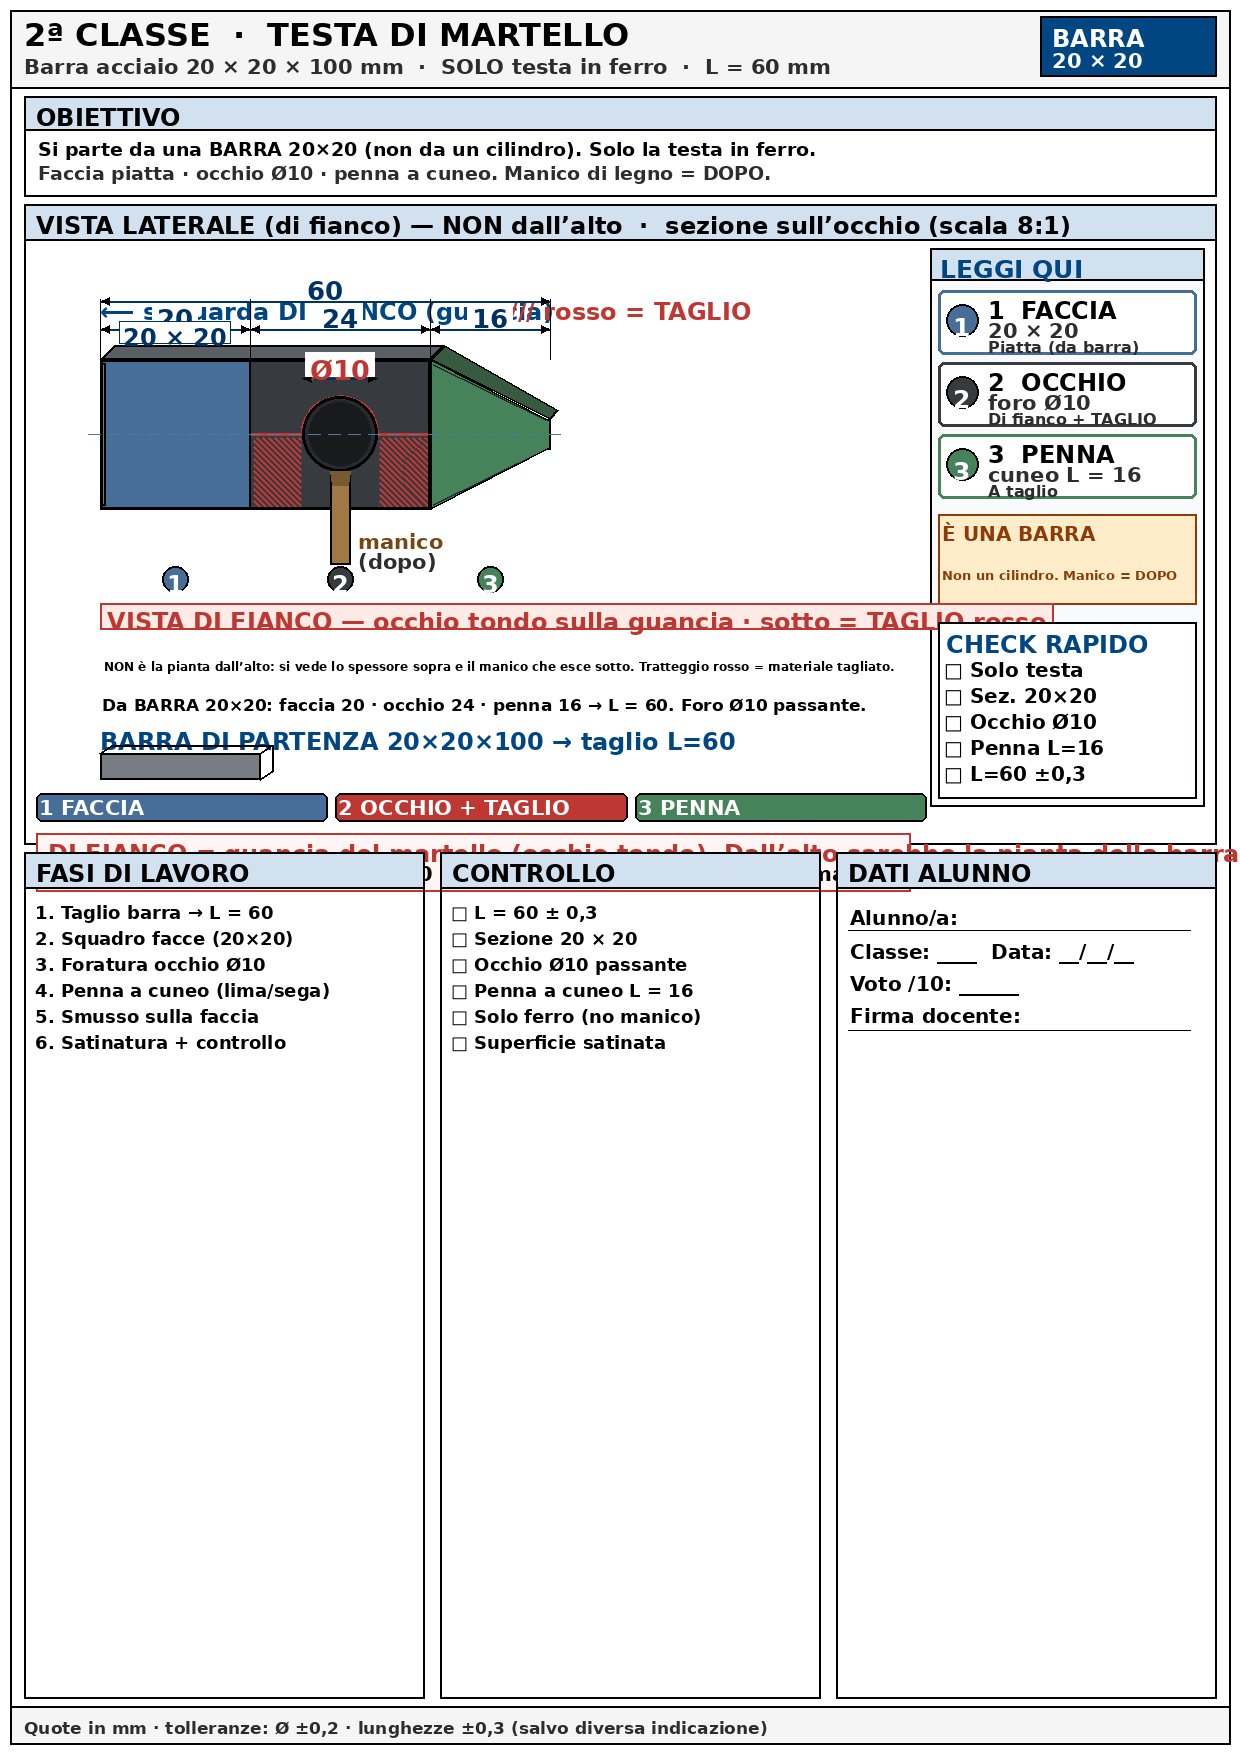
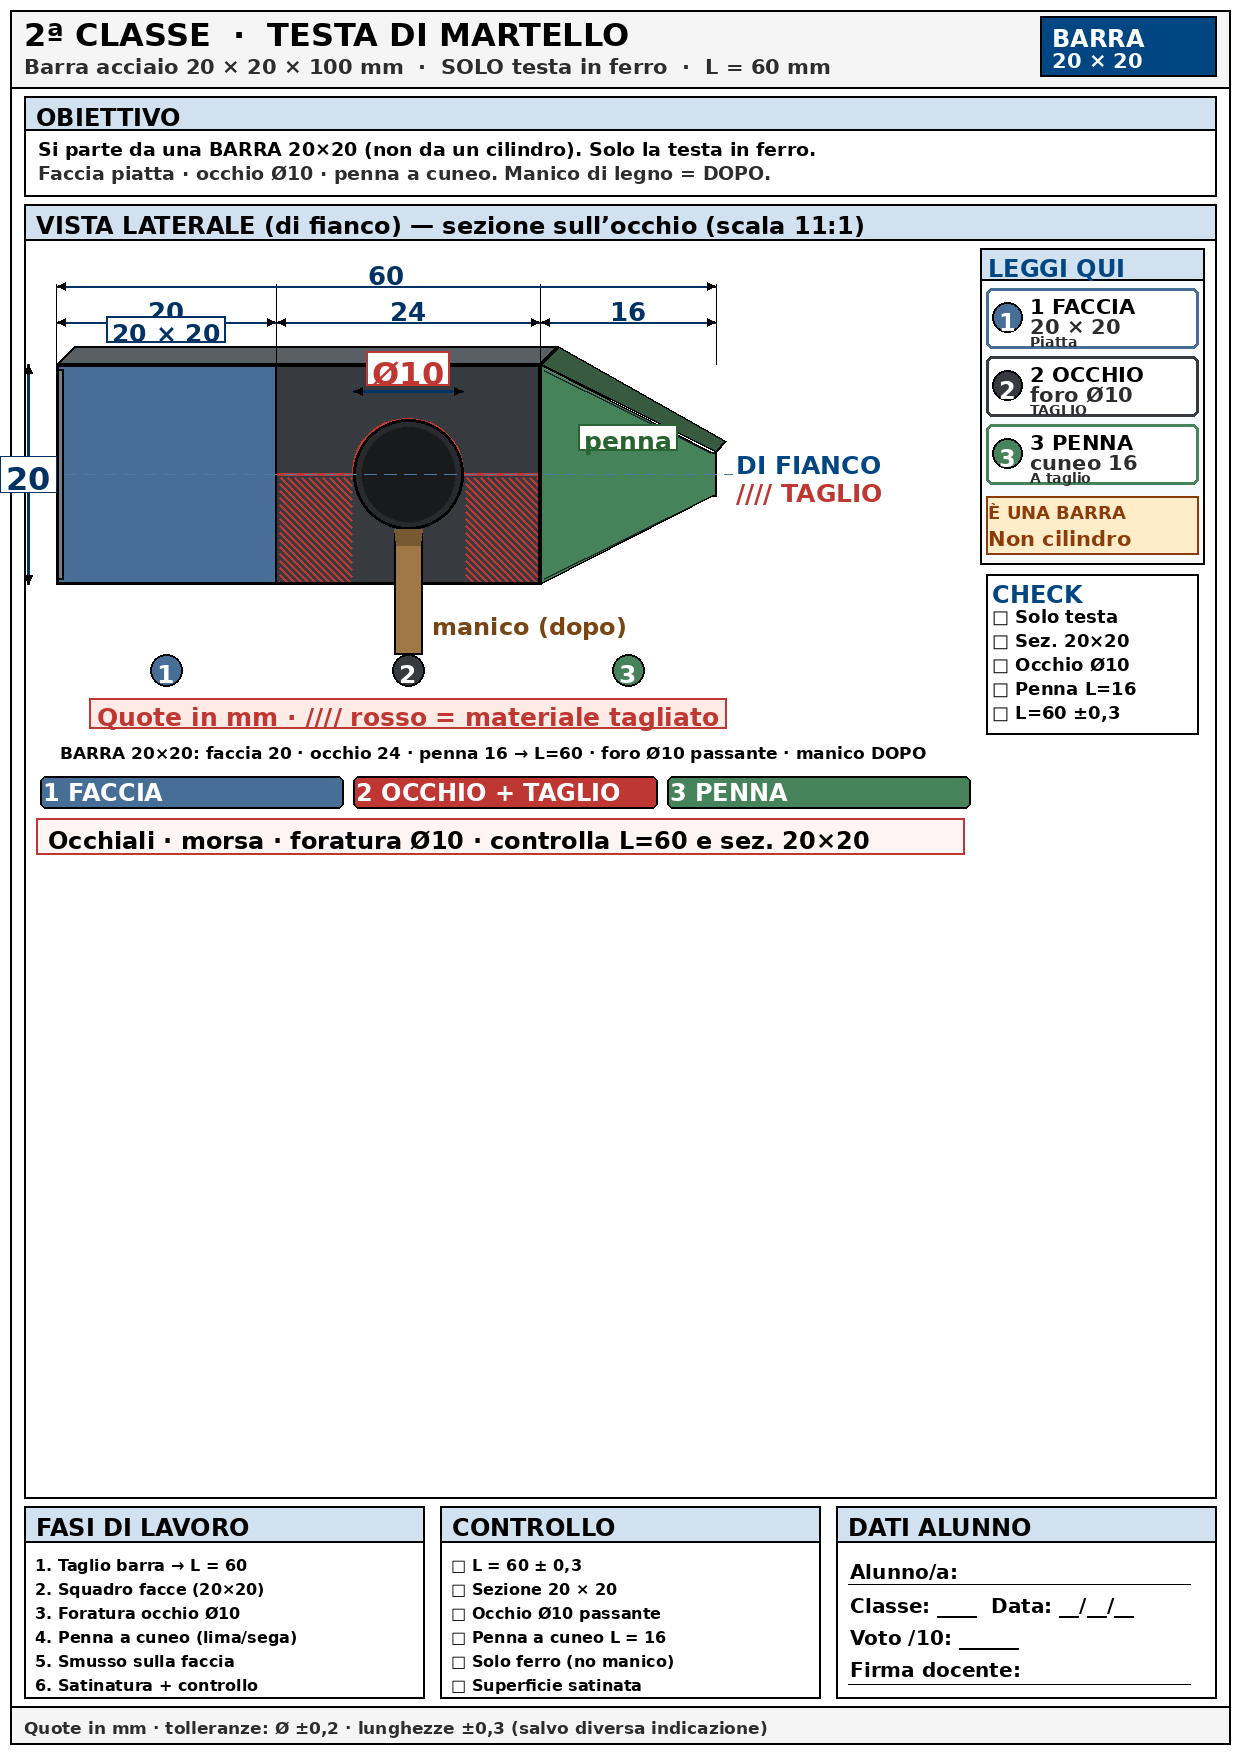
Ingrandisce il disegno della testa martello e le quote.
Scala 11:1; Ø10 e 20 più leggibili; niente testo sopra le misure.

Changed region(s): [[0.0, 0.1231, 1.0, 0.9852]]

diff --git a/progetti-ferro-gallery/generate_ferro.py b/progetti-ferro-gallery/generate_ferro.py
@@ -478,19 +478,12 @@ def make_2a():
         "□ Solo ferro (no manico)",
         "□ Superficie satinata",
     ]
-    step = 26
-    bh = 40 + max(len(fasi), len(ctrl)) * step + 20
-    draw_h = 580
-    bot = draw_top + draw_h + 8
-    if bot + bh > FOOT - 8:
-        bh = FOOT - bot - 8
-    else:
-        slack = FOOT - 8 - bh - bot
-        if slack > 0:
-            draw_h += min(slack, 60)
-            bot = draw_top + draw_h + 8
-            bh = FOOT - bot - 8
-    panel(d, 24, draw_top, W - 48, draw_h, "VISTA LATERALE (di fianco) — NON dall’alto  ·  sezione sull’occhio (scala 8:1)")
+    step = 24
+    bh = 36 + max(len(fasi), len(ctrl)) * step + 12
+    # più spazio al disegno (quote grandi)
+    bot = FOOT - bh - 8
+    draw_h = bot - draw_top - 8
+    panel(d, 24, draw_top, W - 48, draw_h, "VISTA LATERALE (di fianco) — sezione sull’occhio (scala 11:1)")
     panel_bottom = draw_top + draw_h
 
     FACE_C = (70, 110, 150)
@@ -500,43 +493,42 @@ def make_2a():
     IRON_D = (35, 38, 42)
     TOP_C = (90, 95, 100)   # faccia superiore (spessore)
 
-    info_x1, info_x2 = 930, W - 36
-    leggi_bottom = draw_top + 418 + 36 + 5 * 26 + 10 + 8
-    d.rectangle([info_x1, draw_top + 44, info_x2, leggi_bottom], fill=(248, 250, 252), outline=BLACK, width=2)
+    # pannello destro più stretto → più spazio al disegno
+    info_x1, info_x2 = 980, W - 36
+    d.rectangle([info_x1, draw_top + 44, info_x2, draw_top + 360], fill=(248, 250, 252), outline=BLACK, width=2)
     d.rectangle([info_x1, draw_top + 44, info_x2, draw_top + 76], fill=LIGHT, outline=BLACK, width=2)
-    d.text((info_x1 + 10, draw_top + 50), "LEGGI QUI", fill=ACCENT, font=F14)
+    d.text((info_x1 + 8, draw_top + 50), "LEGGI QUI", fill=ACCENT, font=F13)
 
     blocks = [
-        (FACE_C, "FACCIA", "20 × 20", "Piatta (da barra)"),
-        (IRON, "OCCHIO", "foro Ø10", "Di fianco + TAGLIO"),
-        (PEEN_C, "PENNA", "cuneo L = 16", "A taglio"),
+        (FACE_C, "FACCIA", "20 × 20", "Piatta"),
+        (IRON, "OCCHIO", "foro Ø10", "TAGLIO"),
+        (PEEN_C, "PENNA", "cuneo 16", "A taglio"),
     ]
     for i, (col, title, line1, line2) in enumerate(blocks):
-        yy = draw_top + 86 + i * 72
-        d.rounded_rectangle([info_x1 + 8, yy, info_x2 - 8, yy + 64], radius=6, fill=WHITE, outline=col, width=3)
-        d.ellipse([info_x1 + 16, yy + 14, info_x1 + 48, yy + 46], fill=col, outline=BLACK, width=2)
+        yy = draw_top + 84 + i * 68
+        d.rounded_rectangle([info_x1 + 6, yy, info_x2 - 6, yy + 60], radius=6, fill=WHITE, outline=col, width=3)
+        d.ellipse([info_x1 + 12, yy + 14, info_x1 + 42, yy + 44], fill=col, outline=BLACK, width=2)
         num = str(i + 1)
-        tw = d.textlength(num, font=F14)
-        d.text((info_x1 + 32 - tw / 2, yy + 22), num, fill=WHITE, font=F14)
-        tx = info_x1 + 58
-        d.text((tx, yy + 6), f"{num}  {title}", fill=BLACK, font=F13)
-        d.text((tx, yy + 28), line1, fill=GRAY, font=F12)
-        text_in_box(d, tx, yy + 46, info_x2 - 16 - tx, 16, line2, F12, GRAY, pad=0)
+        tw = d.textlength(num, font=F13)
+        d.text((info_x1 + 27 - tw / 2, yy + 20), num, fill=WHITE, font=F13)
+        tx = info_x1 + 50
+        d.text((tx, yy + 6), f"{num} {title}", fill=BLACK, font=F12)
+        d.text((tx, yy + 26), line1, fill=GRAY, font=F12)
+        text_in_box(d, tx, yy + 44, info_x2 - 12 - tx, 14, line2, F12, GRAY, pad=0)
 
-    d.rectangle([info_x1 + 8, draw_top + 310, info_x2 - 8, draw_top + 400], fill=WARN_BG, outline=WARN, width=2)
-    text_in_box(d, info_x1 + 8, draw_top + 316, info_x2 - info_x1 - 16, 28, "È UNA BARRA", F14, WARN, pad=4)
-    text_in_box(d, info_x1 + 8, draw_top + 348, info_x2 - info_x1 - 16, 44, "Non un cilindro. Manico = DOPO", F13, WARN, pad=4)
+    d.rectangle([info_x1 + 6, draw_top + 292, info_x2 - 6, draw_top + 350], fill=WARN_BG, outline=WARN, width=2)
+    text_in_box(d, info_x1 + 6, draw_top + 296, info_x2 - info_x1 - 20, 22, "È UNA BARRA", F13, WARN, pad=2)
+    text_in_box(d, info_x1 + 6, draw_top + 320, info_x2 - info_x1 - 20, 26, "Non cilindro", F12, WARN, pad=2)
 
-    # ── VISTA LATERALE 3/4 (di fianco) con spessore visibile + SEZIONE sull’occhio ──
-    # Non è la pianta dall’alto: si vede la guancia + lo spessore sopra + il manico che esce sotto.
-    sc = 7.5
-    mid = draw_top + 230
-    ox = 100
+    # ── VISTA LATERALE GRANDE + SEZIONE ──
+    sc = 11.0
+    mid = draw_top + 270
+    ox = 56
     Lf, Lo, Lp = 20, 24, 16
-    h = 10 * sc                 # metà altezza (20 mm)
+    h = 10 * sc                 # metà altezza (20 mm) → 110 px
     tip_h = 2.0 * sc
-    depth = 14                  # px di spessore in obliquo (suggerisce 3D)
-    hole_r = 5 * sc             # Ø10
+    depth = 18
+    hole_r = 5 * sc             # Ø10 → 55 px
 
     x0 = ox
     x1 = ox + Lf * sc
@@ -548,13 +540,12 @@ def make_2a():
     def P(xm, ym):
         return (xm, mid + ym)
 
-    # --- Faccia superiore (spessore) — parallelogramma: prova che NON è vista dall’alto ---
+    # Faccia superiore (spessore)
     top_face = [
         (x0, mid - h), (x2, mid - h),
         (x2 + depth, mid - h - depth), (x0 + depth, mid - h - depth),
     ]
     d.polygon(top_face, fill=TOP_C, outline=BLACK, width=2)
-    # spessore penna (cima)
     peen_top = [
         (x2, mid - h), (end_x, mid - tip_h),
         (end_x + depth * 0.6, mid - tip_h - depth * 0.6),
@@ -562,41 +553,36 @@ def make_2a():
     ]
     d.polygon(peen_top, fill=(55, 90, 65), outline=BLACK, width=2)
 
-    # --- Guancia (vista laterale vera) ---
+    # Guancia
     d.rectangle([x0, mid - h, x2, mid + h], fill=IRON, outline=BLACK, width=3)
     d.rectangle([x0, mid - h, x1, mid + h], fill=FACE_C, outline=BLACK, width=2)
-    d.rectangle([x0, mid - h + 4, x0 + 5, mid + h - 4], fill=IRON_L, outline=BLACK, width=2)
+    d.rectangle([x0, mid - h + 5, x0 + 7, mid + h - 5], fill=IRON_L, outline=BLACK, width=2)
 
     penna = [
-        P(x2, -h), P(x2 + 6, -h + 3),
-        P(end_x - 3, -tip_h), P(end_x, -tip_h),
-        P(end_x, tip_h), P(end_x - 3, tip_h),
-        P(x2 + 6, h - 3), P(x2, h),
+        P(x2, -h), P(x2 + 8, -h + 4),
+        P(end_x - 4, -tip_h), P(end_x, -tip_h),
+        P(end_x, tip_h), P(end_x - 4, tip_h),
+        P(x2 + 8, h - 4), P(x2, h),
     ]
     d.polygon(penna, fill=PEEN_C, outline=BLACK, width=2)
-    d.line([x2 + 3, mid - h + 5, end_x - 5, mid - tip_h], fill=IRON_D, width=2)
-    d.line([x2 + 3, mid + h - 5, end_x - 5, mid + tip_h], fill=IRON_D, width=2)
+    d.line([x2 + 4, mid - h + 6, end_x - 6, mid - tip_h], fill=IRON_D, width=2)
+    d.line([x2 + 4, mid + h - 6, end_x - 6, mid + tip_h], fill=IRON_D, width=2)
 
-    # Occhio = cerchio sulla GUANCIA (si guarda di fianco, manico verso di noi / sotto)
+    # Occhio
     d.ellipse([hx - hole_r, mid - hole_r, hx + hole_r, mid + hole_r], fill=(40, 42, 45), outline=BLACK, width=3)
     d.ellipse(
-        [hx - hole_r + 6, mid - hole_r + 5, hx + hole_r - 6, mid + hole_r - 5],
+        [hx - hole_r + 8, mid - hole_r + 7, hx + hole_r - 8, mid + hole_r - 7],
         fill=(25, 26, 28), outline=IRON_D, width=1,
     )
 
-    # ── TAGLIO / SEZIONE locale sull’occhio (metà inferiore) con tratteggio ROSSO ──
-    # Rimuove la metà sotto del metallo intorno al foro e mostra il materiale tagliato
-    sec_y = mid  # piano di taglio orizzontale
-    # zona sezionata: sotto il centro, tra x1 e x2, fuori dal foro
-    hatch_rect(d, x1 + 2, sec_y + 2, hx - hole_r - 1, mid + h - 2, CAP_RED, step=6, width=2)
-    hatch_rect(d, hx + hole_r + 1, sec_y + 2, x2 - 2, mid + h - 2, CAP_RED, step=6, width=2)
-    # bordo del taglio
+    # TAGLIO rosso (metà inferiore)
+    sec_y = mid
+    hatch_rect(d, x1 + 2, sec_y + 2, hx - hole_r - 1, mid + h - 2, CAP_RED, step=7, width=2)
+    hatch_rect(d, hx + hole_r + 1, sec_y + 2, x2 - 2, mid + h - 2, CAP_RED, step=7, width=2)
     d.line([x1, sec_y, hx - hole_r, sec_y], fill=CAP_RED, width=3)
     d.line([hx + hole_r, sec_y, x2, sec_y], fill=CAP_RED, width=3)
-    # semicirconferenza inferiore del foro evidenziata in rosso
-    # (arco approssimato con lineette)
-    for a0 in range(0, 180, 8):
-        a1 = a0 + 8
+    for a0 in range(0, 180, 6):
+        a1 = a0 + 6
         r = hole_r
         x_a = hx + r * math.cos(math.radians(a0 + 180))
         y_a = mid + r * math.sin(math.radians(a0 + 180))
@@ -604,41 +590,40 @@ def make_2a():
         y_b = mid + r * math.sin(math.radians(a1 + 180))
         d.line([x_a, y_a, x_b, y_b], fill=CAP_RED, width=3)
 
-    # ricontorno
     d.rectangle([x0, mid - h, x2, mid + h], outline=BLACK, width=3)
     d.line([x1, mid - h, x1, mid + h], fill=BLACK, width=1)
     d.line([x2, mid - h, x2, mid + h], fill=BLACK, width=2)
     d.polygon(penna, outline=BLACK, width=2)
     d.ellipse([hx - hole_r, mid - hole_r, hx + hole_r, mid + hole_r], outline=BLACK, width=3)
 
-    # Quota Ø10
-    d.line([hx - hole_r, mid - hole_r - 18, hx + hole_r, mid - hole_r - 18], fill=DIM_COL, width=2)
-    arrow_h(d, hx - hole_r, mid - hole_r - 18, left=True)
-    arrow_h(d, hx + hole_r, mid - hole_r - 18, left=False)
-    otw = d.textlength("Ø10", font=F15)
-    d.rectangle([hx - otw / 2 - 4, mid - hole_r - 44, hx + otw / 2 + 4, mid - hole_r - 20], fill=WHITE)
-    d.text((hx - otw / 2, mid - hole_r - 42), "Ø10", fill=CAP_RED, font=F15)
+    # Quota Ø10 — più grande
+    qy = mid - hole_r - 28
+    d.line([hx - hole_r, qy, hx + hole_r, qy], fill=DIM_COL, width=3)
+    arrow_h(d, hx - hole_r, qy, left=True)
+    arrow_h(d, hx + hole_r, qy, left=False)
+    otw = d.textlength("Ø10", font=F22)
+    d.rectangle([hx - otw / 2 - 6, qy - 40, hx + otw / 2 + 6, qy - 6], fill=WHITE, outline=CAP_RED, width=2)
+    d.text((hx - otw / 2, qy - 36), "Ø10", fill=CAP_RED, font=F22)
 
-    # Manico che ESCE SOTTO (prova: si guarda di fianco, non dall’alto)
-    stem_w = 10
-    d.rectangle([hx - stem_w, mid + hole_r, hx + stem_w, mid + h + 55], fill=(160, 120, 70), outline=BLACK, width=2)
+    # Manico sotto
+    stem_w = 14
+    d.rectangle([hx - stem_w, mid + hole_r, hx + stem_w, mid + h + 70], fill=(160, 120, 70), outline=BLACK, width=2)
     d.polygon(
         [(hx - stem_w, mid + hole_r), (hx + stem_w, mid + hole_r),
-         (hx + stem_w - 2, mid + hole_r + 14), (hx - stem_w + 2, mid + hole_r + 14)],
+         (hx + stem_w - 2, mid + hole_r + 16), (hx - stem_w + 2, mid + hole_r + 16)],
         fill=(120, 90, 50),
     )
-    d.text((hx + stem_w + 8, mid + h + 20), "manico", fill=(120, 70, 20), font=F12)
-    d.text((hx + stem_w + 8, mid + h + 40), "(dopo)", fill=GRAY, font=F12)
+    d.text((hx + stem_w + 10, mid + h + 28), "manico (dopo)", fill=(120, 70, 20), font=F13)
+    # etichette a DESTRA del pezzo (non sopra le quote)
+    d.text((end_x + 20, mid - 24), "DI FIANCO", fill=ACCENT, font=F14)
+    d.text((end_x + 20, mid + 4), "//// TAGLIO", fill=CAP_RED, font=F14)
 
-    # Etichetta freccia “SI GUARDA DI FIANCO”
-    d.text((x0, mid - h - depth - 48), "⟵ si guarda DI FIANCO (guancia)", fill=ACCENT, font=F13)
-    d.text((x0 + 400, mid - h - depth - 48), "//// rosso = TAGLIO", fill=CAP_RED, font=F13)
+    centerline(d, x0 - 12, end_x + 16, mid)
 
-    centerline(d, x0 - 12, end_x + 14, mid)
-
-    top_r = mid - h - depth - 8
-    q1 = top_r - 8
-    q0 = q1 - 28
+    # Quote lunghezze — più aria e font grandi (FDIM già 26)
+    top_r = mid - h - depth - 14
+    q1 = top_r - 10
+    q0 = q1 - 36
     for xx in (x0, x1, x2, end_x):
         ext_tick(d, xx, mid - h, q0 - 2)
     dim_h(d, x0, x1, q1, "20")
@@ -646,83 +631,71 @@ def make_2a():
     dim_h(d, x2, end_x, q1, "16")
     dim_h(d, x0, end_x, q0, "60")
 
-    def lab_box(cx, yy, text, col):
-        tw = d.textlength(text, font=F13)
-        d.rectangle([cx - tw / 2 - 4, yy - 2, cx + tw / 2 + 4, yy + 20], fill=WHITE, outline=col, width=1)
-        d.text((cx - tw / 2, yy), text, fill=col, font=F13)
+    # quota altezza 20 a sinistra
+    d.line([x0 - 28, mid - h, x0 - 28, mid + h], fill=DIM_COL, width=3)
+    arrow_v(d, x0 - 28, mid - h, up=True)
+    arrow_v(d, x0 - 28, mid + h, up=False)
+    tw20 = d.textlength("20", font=F22)
+    d.rectangle([x0 - 28 - tw20 / 2 - 6, mid - 18, x0 - 28 + tw20 / 2 + 6, mid + 18], fill=WHITE, outline=DIM_COL, width=1)
+    d.text((x0 - 28 - tw20 / 2, mid - 14), "20", fill=DIM_COL, font=F22)
 
-    lab_box((x0 + x1) / 2, mid - h - depth - 22, "20 × 20", DIM_COL)
+    def lab_box(cx, yy, text, col):
+        tw = d.textlength(text, font=F14)
+        d.rectangle([cx - tw / 2 - 6, yy - 2, cx + tw / 2 + 6, yy + 24], fill=WHITE, outline=col, width=2)
+        d.text((cx - tw / 2, yy), text, fill=col, font=F14)
+
+    lab_box((x0 + x1) / 2, mid - h - depth - 28, "20 × 20", DIM_COL)
+    lab_box(peen_mid, mid - tip_h - depth - 8, "penna", (40, 100, 50))
 
     def badge(cx, cy, n, bg):
-        d.ellipse([cx - 13, cy - 13, cx + 13, cy + 13], fill=bg, outline=BLACK, width=2)
-        tw = d.textlength(n, font=F13)
-        d.text((cx - tw / 2, cy - 9), n, fill=WHITE, font=F13)
+        d.ellipse([cx - 16, cy - 16, cx + 16, cy + 16], fill=bg, outline=BLACK, width=2)
+        tw = d.textlength(n, font=F14)
+        d.text((cx - tw / 2, cy - 11), n, fill=WHITE, font=F14)
 
-    badge_y = mid + h + 70
+    badge_y = mid + h + 86
     badge((x0 + x1) / 2, badge_y, "1", FACE_C)
     badge(hx, badge_y, "2", IRON)
     badge(peen_mid, badge_y, "3", PEEN_C)
 
-    ftxt = "VISTA DI FIANCO — occhio tondo sulla guancia · sotto = TAGLIO rosso"
-    ftw = d.textlength(ftxt, font=F13) + 14
-    fy = badge_y + 24
-    d.rectangle([max(ox, hx - ftw / 2), fy, max(ox, hx - ftw / 2) + ftw, fy + 26], fill=(255, 235, 230), outline=CAP_RED, width=2)
-    d.text((max(ox, hx - ftw / 2) + 7, fy + 4), ftxt, fill=CAP_RED, font=F13)
+    ftxt = "Quote in mm · //// rosso = materiale tagliato"
+    ftw = d.textlength(ftxt, font=F14) + 16
+    fy = badge_y + 28
+    fx0 = max(ox, hx - ftw / 2)
+    d.rectangle([fx0, fy, fx0 + ftw, fy + 30], fill=(255, 235, 230), outline=CAP_RED, width=2)
+    d.text((fx0 + 8, fy + 4), ftxt, fill=CAP_RED, font=F14)
 
+    # nota corta sotto (niente mini-barra: più spazio al pezzo)
     note_y = fy + 40
     text_in_box(
-        d, ox, note_y, info_x1 - ox - 24, 44,
-        "NON è la pianta dall’alto: si vede lo spessore sopra e il manico che esce sotto. Tratteggio rosso = materiale tagliato.",
-        F13, BLACK, pad=4,
+        d, ox, note_y, info_x1 - ox - 20, 28,
+        "BARRA 20×20: faccia 20 · occhio 24 · penna 16 → L=60 · foro Ø10 passante · manico DOPO",
+        F14, BLACK, pad=4,
     )
-    text_in_box(
-        d, ox, note_y + 50, info_x1 - ox - 24, 22,
-        "Da BARRA 20×20: faccia 20 · occhio 24 · penna 16 → L = 60. Foro Ø10 passante.",
-        F13, BLACK, pad=2,
-    )
-
-    bx, by = ox, note_y + 84
-    d.text((bx, by), "BARRA DI PARTENZA 20×20×100 → taglio L=60", fill=ACCENT, font=F13)
-    d.rectangle([bx, by + 26, bx + 160, by + 52], fill=IRON_L, outline=BLACK, width=2)
-    d.line([bx + 160, by + 26, bx + 172, by + 18], fill=BLACK, width=2)
-    d.line([bx + 160, by + 52, bx + 172, by + 44], fill=BLACK, width=2)
-    d.line([bx + 172, by + 18, bx + 172, by + 44], fill=BLACK, width=2)
-    d.line([bx, by + 26, bx + 12, by + 18], fill=BLACK, width=2)
-    d.line([bx + 12, by + 18, bx + 172, by + 18], fill=BLACK, width=2)
 
     legend = [
         ("1 FACCIA", FACE_C, WHITE),
         ("2 OCCHIO + TAGLIO", CAP_RED, WHITE),
         ("3 PENNA", PEEN_C, WHITE),
     ]
-    tag_y = by + 66
-    gap = 8
-    chip_w = (info_x1 - 40 - 2 * gap) / 3
+    tag_y = note_y + 38
+    gap = 10
+    chip_w = (info_x1 - 50 - 2 * gap) / 3
     for i, (lab, fill, tcol) in enumerate(legend):
-        xa = 36 + i * (chip_w + gap)
-        d.rounded_rectangle([xa, tag_y, xa + chip_w, tag_y + 28], radius=6, fill=fill, outline=BLACK, width=2)
-        text_in_box(d, xa, tag_y, chip_w, 28, lab, F12, tcol, pad=3)
+        xa = 40 + i * (chip_w + gap)
+        d.rounded_rectangle([xa, tag_y, xa + chip_w, tag_y + 32], radius=6, fill=fill, outline=BLACK, width=2)
+        text_in_box(d, xa, tag_y, chip_w, 32, lab, F13, tcol, pad=3)
 
-    tip_y = tag_y + 40
-    tips = [
-        "DI FIANCO = guancia del martello (occhio tondo). Dall’alto sarebbe la pianta della barra.",
-        "• Occhiali · morsa · foratura Ø10 · controlla L=60 e sez. 20×20 · manico dopo",
-    ]
-    tip_step = 22
-    tip_h_box = 10 + len(tips) * tip_step + 4
-    d.rectangle([36, tip_y, info_x1 - 20, tip_y + tip_h_box], fill=(255, 245, 245), outline=CAP_RED, width=2)
-    for i, ln in enumerate(tips):
-        fill = CAP_RED if i == 0 else BLACK
-        f = F13 if i == 0 else F12
-        d.text((48, tip_y + 6 + i * tip_step), ln, fill=fill, font=f)
+    tip_y = tag_y + 42
+    d.rectangle([36, tip_y, info_x1 - 16, tip_y + 36], fill=(255, 245, 245), outline=CAP_RED, width=2)
+    d.text((48, tip_y + 8), "Occhiali · morsa · foratura Ø10 · controlla L=60 e sez. 20×20", fill=BLACK, font=F13)
 
-    right_y = draw_top + 418
+    right_y = draw_top + 370
     checks = ["□ Solo testa", "□ Sez. 20×20", "□ Occhio Ø10", "□ Penna L=16", "□ L=60 ±0,3"]
-    rh = 36 + len(checks) * 26 + 10
-    d.rectangle([info_x1 + 8, right_y, info_x2 - 8, right_y + rh], fill=WHITE, outline=BLACK, width=2)
-    d.text((info_x1 + 16, right_y + 8), "CHECK RAPIDO", fill=ACCENT, font=F13)
+    rh = 32 + len(checks) * 24 + 8
+    d.rectangle([info_x1 + 6, right_y, info_x2 - 6, right_y + rh], fill=WHITE, outline=BLACK, width=2)
+    d.text((info_x1 + 12, right_y + 6), "CHECK", fill=ACCENT, font=F13)
     for i, ln in enumerate(checks):
-        text_in_box(d, info_x1 + 12, right_y + 34 + i * 26, info_x2 - info_x1 - 28, 24, ln, F12, BLACK, pad=2)
+        text_in_box(d, info_x1 + 10, right_y + 30 + i * 24, info_x2 - info_x1 - 24, 22, ln, F12, BLACK, pad=2)
 
     y = panel(d, 24, bot, 400, bh, "FASI DI LAVORO")
     for i, ln in enumerate(fasi):
